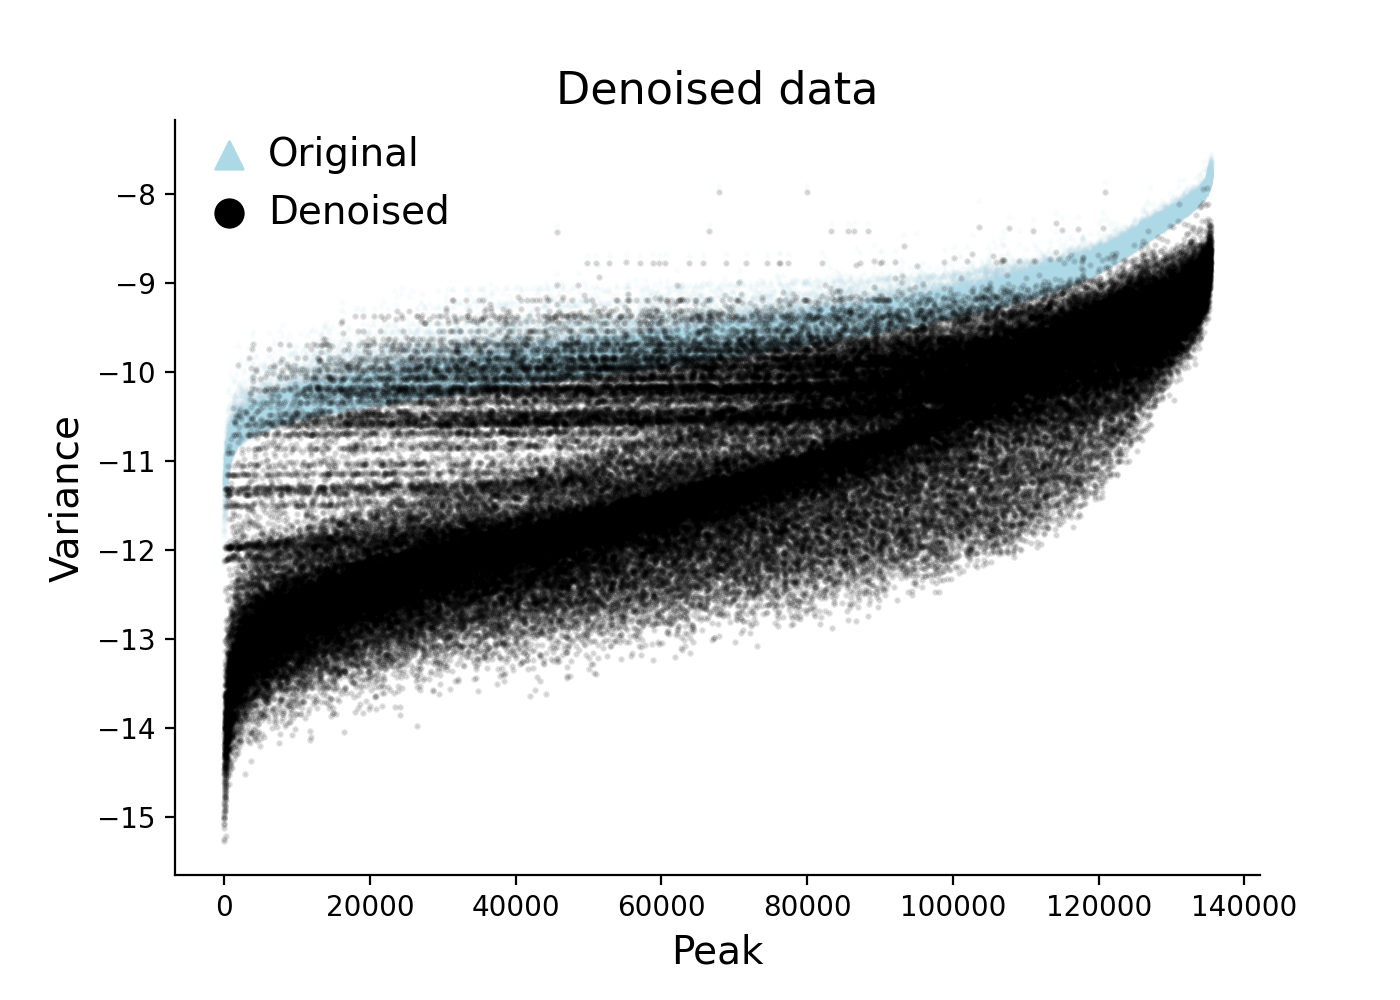
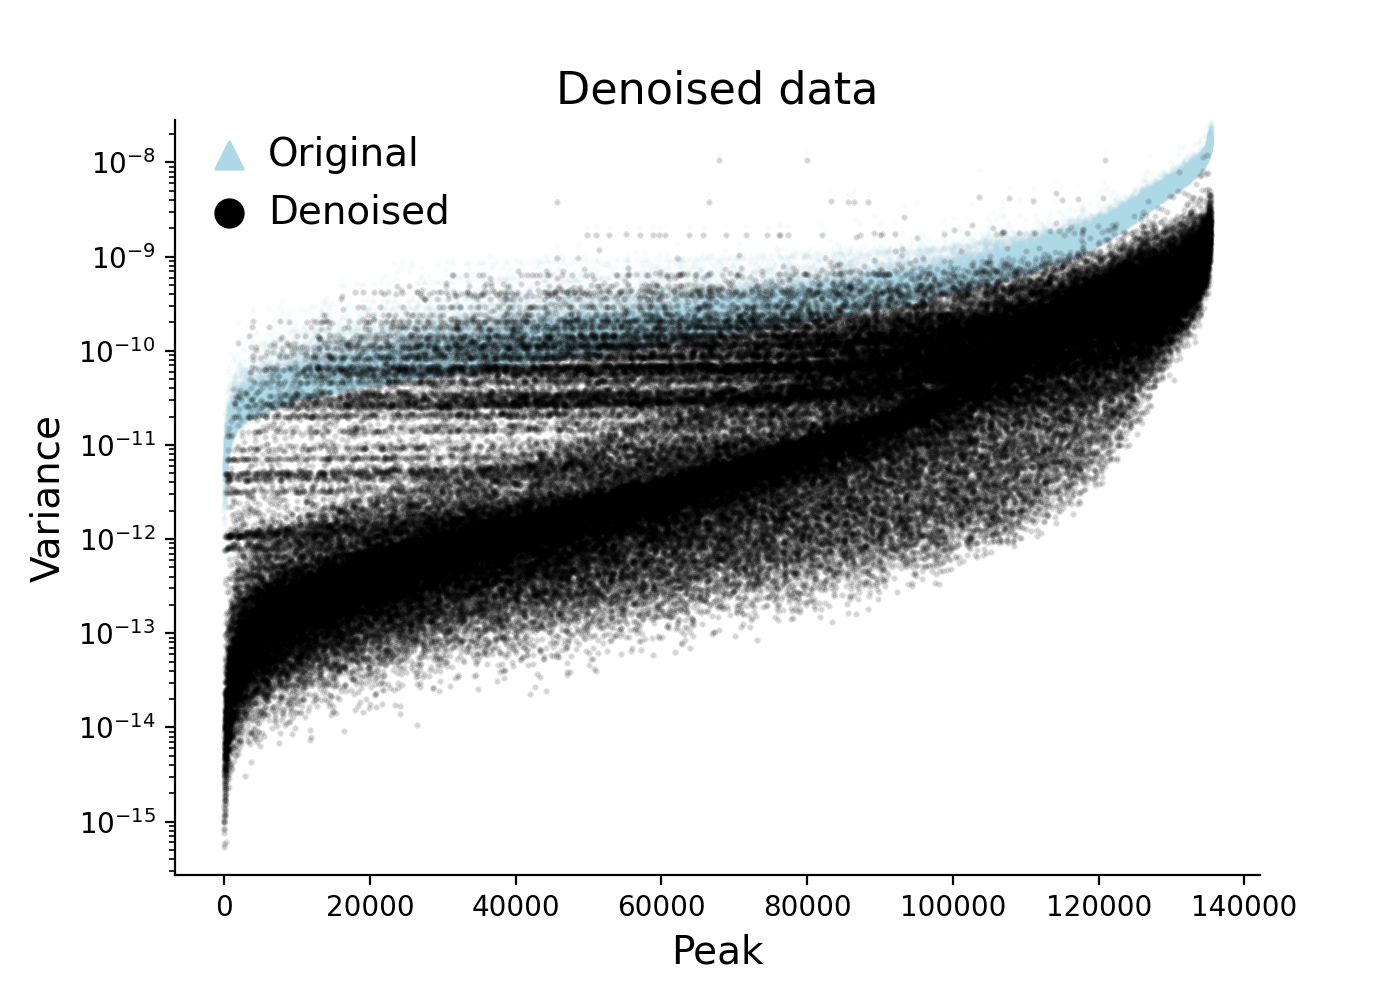
add R code

diff --git a/python/screcode/screcode.py b/python/screcode/screcode.py
@@ -14,7 +14,7 @@ class scRECODE():
 	def __init__(
 		self,
 		fast_algorithm = True,
-		fast_algorithm_ell_max = 1000,
+		fast_algorithm_ell_ub = 1000,
 		seq_target = 'RNA',
 		verbose = True
 		):
@@ -24,10 +24,10 @@ class scRECODE():
 		Parameters
 		----------
 		fast_algorithm : boolean, default=True
-			If True, the fast algorithm is conducted. The upper bound of parameter :math:`\ell` is set in ``fast_algorithm_ell_max``.
+			If True, the fast algorithm is conducted. The upper bound of parameter :math:`\ell` is set in ``fast_algorithm_ell_ub``.
 		
-		fast_algorithm_ell_max : int, default=1000
-			Upper bound of parameter :math:`\ell` for the fast algorithm. Must be of range [1, infinity).
+		fast_algorithm_ell_ub : int, default=1000
+			Upper bound of parameter :math:`\ell` for the fast algorithm. Must be of range [1,:math:`\infity`).
 		
 		seq_target : {'RNA','ATAC'}, default='RNA'
 			Sequencing target. If 'ATAC', the preprocessing (odd-even normalization) will be performed before the regular algorithm. 
@@ -53,7 +53,7 @@ class scRECODE():
 			Significance (significant/non-significant/silent) of features (genes/peaks).
 		"""
 		self.fast_algorithm = fast_algorithm
-		self.fast_algorithm_ell_max = fast_algorithm_ell_max
+		self.fast_algorithm_ell_ub = fast_algorithm_ell_ub
 		self.seq_target = seq_target
 		self.verbose = verbose
 		self.log_ = {}
@@ -86,7 +86,7 @@ class scRECODE():
 		self.X_nUMI = X_nUMI
 		self.X_scaled_mean = X_scaled_mean
 		self.noise_var = noise_var
-		self.X_norm_var = np.var(X_norm,axis=0)
+		self.X_norm_var = np.var(X_norm,axis=0,ddof=1)
 		self.idx_sig = self.X_norm_var > 1
 		self.idx_nonsig = self.idx_sig==False
 		self.log_['#significant %ss' % self.unit] = sum(self.idx_sig)
@@ -163,7 +163,7 @@ class scRECODE():
 		self.fit(X)
 		self.log_['seq_target'] = self.seq_target
 		X_norm = self._noise_variance_stabilizing_normalization(self.X_temp)
-		recode_ = RECODE(variance_estimate=False,fast_algorithm=self.fast_algorithm,fast_algorithm_ell_max=self.fast_algorithm_ell_max)
+		recode_ = RECODE(variance_estimate=False,fast_algorithm=self.fast_algorithm,fast_algorithm_ell_ub=self.fast_algorithm_ell_ub)
 		X_norm_RECODE = recode_.fit_transform(X_norm)
 		X_scRECODE = np.zeros(X.shape,dtype=float)
 		X_scRECODE[:,self.idx_nonsilent] = self._inv_noise_variance_stabilizing_normalization(X_norm_RECODE)
@@ -177,8 +177,8 @@ class scRECODE():
 		if self.verbose:
 			print('end scRECODE for sc%s-seq' % self.seq_target)
 			print('log:',self.log_)
-		if recode_.ell == self.fast_algorithm_ell_max:
-			warnings.warn("Acceleration error: the value of ell may not be optimal. Set 'fast_algorithm=False' or larger fast_algorithm_ell_max.\n"
+		if recode_.ell == self.fast_algorithm_ell_ub:
+			warnings.warn("Acceleration error: the value of ell may not be optimal. Set 'fast_algorithm=False' or larger fast_algorithm_ell_ub.\n"
 			"Ex. X_new = screcode.scRECODE(fast_algorithm=False).fit_transform(X)")
 		self.X_scRECODE = X_scRECODE
 		self.noise_variance_ = np.zeros(X.shape[1],dtype=float)
@@ -200,7 +200,7 @@ class scRECODE():
 		self,
 		title = '',
 		figsize=(10,5),
-		ps = 10,
+		ps = 2,
 		save = False,
 		save_filename = 'check_applicability',
 		save_format = 'png',
@@ -235,10 +235,12 @@ class scRECODE():
 		"""
 		X_scaled =(self.X_temp.T/np.sum(self.X_temp,axis=1)).T
 		X_norm = self._noise_variance_stabilizing_normalization(self.X_temp)
-		norm_var = np.var(X_norm,axis=0)
+		norm_var = np.var(X_norm,axis=0,ddof=1)
 		x,y = np.mean(X_scaled,axis=0),norm_var
 		idx_nonsig, idx_sig = y <= 1, y > 1
 		fig = plt.figure(figsize=figsize)
+		plt.rcParams['xtick.direction'] = 'in'
+		plt.rcParams['ytick.direction'] = 'in'
 		spec = matplotlib.gridspec.GridSpec(ncols=2, nrows=1,width_ratios=[4, 1],wspace=0.)
 		ax0 = fig.add_subplot(spec[0])
 		ax0.scatter(x[idx_sig],y[idx_sig],color='b',s=ps,label='significant %s' % self.unit,zorder=2)
@@ -402,9 +404,11 @@ class scRECODE():
 		noise_var[noise_var==0] = 1
 		X_norm = (X_scaled-np.mean(X_scaled,axis=0))/np.sqrt(noise_var)
 		fig,ax = plt.subplots(figsize=figsize)
+		plt.rcParams['xtick.direction'] = 'in'
+		plt.rcParams['ytick.direction'] = 'in'
 		idx_sort = np.argsort(np.mean(X_scaled,axis=0))
 		x = np.arange(X_scaled.shape[1])
-		y1 = np.var(X_scaled,axis=0)[idx_sort]
+		y1 = np.var(X_scaled,axis=0,ddof=1)[idx_sort]
 		y2 = noise_var[idx_sort]
 		plt1 = ax.scatter(x,y1,color='k',s=ps,label='Original',zorder=1)
 		plt2 = ax.scatter(x,y2,color='r',s=ps,label='Noise',zorder=2,marker='x')
@@ -468,9 +472,11 @@ class scRECODE():
 		noise_var[noise_var==0] = 1
 		X_norm = (X_scaled-np.mean(X_scaled,axis=0))/np.sqrt(noise_var)
 		fig,ax = plt.subplots(figsize=figsize)
+		plt.rcParams['xtick.direction'] = 'in'
+		plt.rcParams['ytick.direction'] = 'in'
 		idx_sort = np.argsort(np.mean(X_scaled,axis=0))
 		x = np.arange(X_scaled.shape[1])
-		ax.scatter(x,np.var(X_norm,axis=0)[idx_sort],color='k',s=ps,zorder=2)
+		ax.scatter(x,np.var(X_norm,axis=0,ddof=1)[idx_sort],color='k',s=ps,zorder=2)
 		ax.axhline(1,color='r',ls='--')
 		ax.set_xlabel(self.Unit,fontsize=fs_label)
 		ax.set_ylabel('Variance',fontsize=fs_label)
@@ -527,6 +533,8 @@ class scRECODE():
 		idx_sort = np.argsort(np.mean(X_scaled,axis=0))
 
 		fig,ax = plt.subplots(figsize=figsize)
+		plt.rcParams['xtick.direction'] = 'in'
+		plt.rcParams['ytick.direction'] = 'in'
 		idx_sort = np.argsort(np.mean(X_scaled,axis=0))
 		x = np.arange(X_scaled.shape[1])
 		ax.scatter(np.arange(n_EV)+1,plot_EV,color='k',label='Original',s=ps,zorder=1)
@@ -589,6 +597,8 @@ class scRECODE():
 		idx_sort = np.argsort(np.mean(X_scaled,axis=0))
 		
 		fig,ax = plt.subplots(figsize=figsize)
+		plt.rcParams['xtick.direction'] = 'in'
+		plt.rcParams['ytick.direction'] = 'in'
 		idx_sort = np.argsort(np.mean(X_scaled,axis=0))
 		x = np.arange(X_scaled.shape[1])
 		ax.scatter(np.arange(n_EV)+1,plot_EV,color='lightblue',label='Original',marker='^',s=ps,zorder=1)
@@ -650,11 +660,11 @@ class scRECODE():
 		X_scRECODE_scaled = (self.X_scRECODE[:,self.idx_nonsilent].T/np.sum(self.X_scRECODE,axis=1)).T
 		idx_sort = np.argsort(np.mean(X_scaled,axis=0))
 		fig,ax = plt.subplots(figsize=figsize)
+		plt.rcParams['xtick.direction'] = 'in'
+		plt.rcParams['ytick.direction'] = 'in'
 		x = np.arange(X_scaled.shape[1])
-		#y1 = np.log10(np.var(X_scaled,axis=0)[idx_sort])
-		#y2 = np.log10(np.var(X_scRECODE_scaled,axis=0)[idx_sort])
-		y1 = np.var(X_scaled,axis=0)[idx_sort]
-		y2 = np.var(X_scRECODE_scaled,axis=0)[idx_sort]
+		y1 = np.var(X_scaled,axis=0,ddof=1)[idx_sort]
+		y2 = np.var(X_scRECODE_scaled,axis=0,ddof=1)[idx_sort]
 		plt1 = ax.scatter(x,y1,color='lightblue',s=ps,label='Original',zorder=1,marker='^')
 		plt2 = ax.scatter(x,y2,color='k',s=ps,label='Denoised',zorder=2,marker='o')
 		ax.set_ylim([min(min(y1),min(y2))*0.5,max(max(y1),max(y2))])
@@ -675,7 +685,7 @@ class scRECODE():
 		self,
 		titles=('Original','scRECODE'),
 		figsize=(7,5),
-		ps = 10,
+		ps = 2,
 		size_factor = 'median',
 		save = False,
 		save_filename = 'plot_mean_variance',
@@ -727,7 +737,9 @@ class scRECODE():
 		X_ss_log = np.log2(size_factor*(self.X[:,self.idx_nonsilent].T/np.sum(self.X,axis=1)).T+1)
 		X_scRECODE_ss_log = np.log2(size_factor_scRECODE*(self.X_scRECODE[:,self.idx_nonsilent].T/np.sum(self.X_scRECODE,axis=1)).T+1)
 		fig,ax0 = plt.subplots(figsize=figsize)
-		x,y = np.mean(X_ss_log,axis=0),np.var(X_ss_log,axis=0)
+		plt.rcParams['xtick.direction'] = 'in'
+		plt.rcParams['ytick.direction'] = 'in'
+		x,y = np.mean(X_ss_log,axis=0),np.var(X_ss_log,axis=0,ddof=1)
 		ax0.scatter(x,y,color='b',s=ps,label='significant %s' % self.unit,zorder=2)
 		ax0.axhline(0,color='gray',ls='--',lw=2,zorder=1)
 		ax0.set_xlabel('Mean of log-scaled data',fontsize=fs_label)
@@ -738,7 +750,7 @@ class scRECODE():
 		if save:
 			plt.savefig('%s_Original.%s' % (save_filename,save_format),dpi=dpi)
 		fig,ax1 = plt.subplots(figsize=figsize)
-		x,y = np.mean(X_scRECODE_ss_log,axis=0),np.var(X_scRECODE_ss_log,axis=0)
+		x,y = np.mean(X_scRECODE_ss_log,axis=0),np.var(X_scRECODE_ss_log,axis=0,ddof=1)
 		ax1.scatter(x,y,color='b',s=ps,label='significant %s' % self.unit,zorder=2)
 		ax1.set_ylim(ax0.set_ylim())
 		ax1.axhline(0,color='gray',ls='--',lw=2,zorder=1)
@@ -756,7 +768,7 @@ class scRECODE():
 		self,
 		title=None,
 		figsize=(7,5),
-		ps = 5,
+		ps = 2,
 		save = False,
 		save_filename = 'plot_mean_cv',
 		save_format = 'png',
@@ -805,6 +817,8 @@ class scRECODE():
 		"""
 		X_ss = (np.median(np.sum(self.X[:,self.idx_nonsilent],axis=1))*self.X[:,self.idx_nonsilent].T/np.sum(self.X[:,self.idx_nonsilent],axis=1)).T
 		fig,ax0 = plt.subplots(figsize=figsize)
+		plt.rcParams['xtick.direction'] = 'in'
+		plt.rcParams['ytick.direction'] = 'in'
 		x = np.mean(X_ss,axis=0)
 		cv = np.std(X_ss,axis=0)/np.mean(X_ss,axis=0)
 		ax0.scatter(x,cv,color='b',s=ps,zorder=2)
@@ -911,6 +925,8 @@ class scRECODE():
 				else:
 				    idx_odd[i] = False
 		plt.figure(figsize=figsize)
+		plt.rcParams['xtick.direction'] = 'in'
+		plt.rcParams['ytick.direction'] = 'in'
 		plt.plot(val[1:],count[1:],color='lightblue',zorder=1,marker='^',label='Original')
 		#plt.scatter(val[idx_even],count[idx_even],color='r',marker='^',zorder=2)
 		#plt.scatter(val[idx_odd],count[idx_odd],color='b',zorder=2)
@@ -937,7 +953,7 @@ class RECODE():
 		solver = 'variance',
 		variance_estimate = True,
 		fast_algorithm = True,
-		fast_algorithm_ell_max = 1000,
+		fast_algorithm_ell_ub = 1000,
 		ell_manual = None,
 	):
 		"""
@@ -954,9 +970,9 @@ class RECODE():
 			If True and ``solver='variance'``, the parameter estimation method will be conducted. 
 		
 		fast_algorithm : boolean, default=True
-			If True, the fast algorithm is conducted. The upper bound of parameter :math:`\ell` is set in ``fast_algorithm_ell_max``.
+			If True, the fast algorithm is conducted. The upper bound of parameter :math:`\ell` is set in ``fast_algorithm_ell_ub``.
 		
-		fast_algorithm_ell_max : int, default=1000
+		fast_algorithm_ell_ub : int, default=1000
 			Upper bound of parameter :math:`\ell` for the fast algorithm. Must be of range [1, infinity).
 		
 		ell_manual : int, default=10
@@ -966,7 +982,7 @@ class RECODE():
 		self.solver = solver
 		self.variance_estimate = variance_estimate
 		self.fast_algorithm = fast_algorithm
-		self.fast_algorithm_ell_max = fast_algorithm_ell_max
+		self.fast_algorithm_ell_ub = fast_algorithm_ell_ub
 		self.ell_manual=ell_manual
 	
 	def fit(self, X):
@@ -986,7 +1002,7 @@ class RECODE():
 		"""
 		n,d = X.shape
 		if self.fast_algorithm:
-			self.n_pca = min(n-1,d-1,self.fast_algorithm_ell_max)
+			self.n_pca = min(n-1,d-1,self.fast_algorithm_ell_ub)
 		else:
 			self.n_pca = min(n-1,d-1)
 		X_svd = X
@@ -997,7 +1013,7 @@ class RECODE():
 		SVD_Sv = svd.singular_values_
 		self.PCA_Ev = (SVD_Sv**2)/(n_svd-1)
 		self.U = svd.components_
-		PCA_Ev_sum_all = np.sum(np.var(X,axis=0))
+		PCA_Ev_sum_all = np.sum(np.var(X,axis=0,ddof=1))
 		PCA_Ev_NRM = np.array(self.PCA_Ev,dtype=float)
 		PCA_Ev_sum_diff = PCA_Ev_sum_all - np.sum(self.PCA_Ev)
 		n_Ev_all = min(n,d)
@@ -1031,8 +1047,8 @@ class RECODE():
 	):
 		PCA_Ev_sum_diff = self.PCA_Ev_sum_all - np.sum(self.PCA_Ev)
 		PCA_Ev_sum = np.array([np.sum(self.PCA_Ev[i:]) for i in range(self.n_pca)])+PCA_Ev_sum_diff
-		d_act = sum(np.var(self.X,axis=0)>0)
-		X_var  = np.var(self.X,axis=0)
+		d_act = sum(np.var(self.X,axis=0,ddof=1)>0)
+		X_var  = np.var(self.X,axis=0,ddof=1)
 		dim = np.sum(X_var>0)
 		thrshold = (dim-np.arange(self.n_pca))*noise_var
 		comp = np.sum(PCA_Ev_sum-thrshold>0)
@@ -1046,7 +1062,7 @@ class RECODE():
 		cut_low_exp=1.0e-10
 	):
 		n,d = X.shape
-		X_var = np.var(X,axis=0)
+		X_var = np.var(X,axis=0,ddof=1)
 		idx_var_p = np.where(X_var>cut_low_exp)[0]
 		X_var_sub = X_var[idx_var_p]
 		X_var_min = np.min(X_var_sub)-1.0e-10

diff --git a/python/sphinx/examples/example_10X_RNA.rst b/python/sphinx/examples/example_10X_RNA.rst
@@ -29,7 +29,7 @@ Apply scRECODE. The denoised data is created in ``data_scRECODE``.
 .. code-block:: python
 
 	recode = screcode.scRECODE()
-	data_scRECODE = recode.fit_transform(anndata.X.toarray())
+	data_scRECODE = recode.fit_transform(adata.X.toarray())
 
 .. parsed-literal::
 
@@ -55,6 +55,12 @@ Check applicability.
 .. code-block:: python
 
 	recode.check_applicability()
+
+.. parsed-literal::
+
+	applicabity: (A) Strongly applicable
+
+.. image:: ../image/Example_10X_RNA_applicability.png
 
 Show 5 procedures of scRECODE. 
 

diff --git a/python/sphinx/examples/example_10X_ATAC.rst b/python/sphinx/examples/example_10X_ATAC.rst
@@ -29,7 +29,7 @@ Apply scRECODE with option ``seq_target='ATAC'``. The denoised data is created i
 .. code-block:: python
 
 	recode = screcode.scRECODE(seq_target='ATAC')
-	data_scRECODE = recode.fit_transform(data)
+	data_scRECODE = recode.fit_transform(adata.X.toarray())
 
 .. parsed-literal::
 
@@ -56,10 +56,9 @@ Check applicability.
 
 	recode.check_applicability()
 
-
 .. parsed-literal::
 
-	applicabity: (A) Strong applicable
+	applicabity: (A) Strongly applicable
 
 .. image:: ../image/Example_10X_ATAC_applicability.png
 
